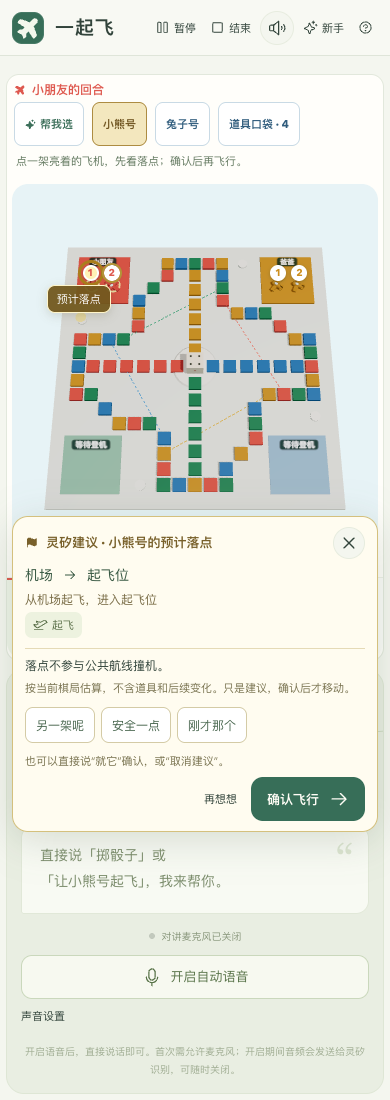
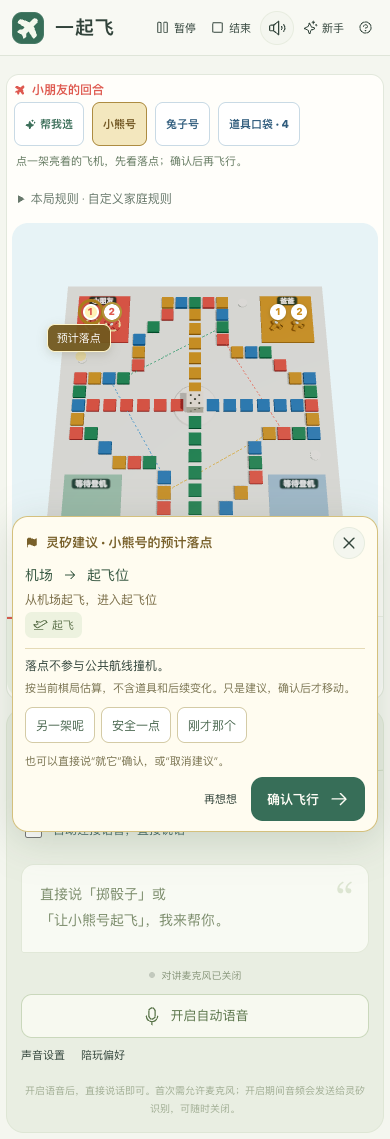
docs: publish P1 acceptance, current screenshots and remaining roadmap

diff --git a/docs/QA-P1.md b/docs/QA-P1.md
@@ -1,0 +1,77 @@
+# P1：陪玩、规则预设与按需棋盘验收
+
+日期：2026-10-24。跟踪 #26、#27、#28，承接 #17。所有应用切片直接提交 main；真实亲子与实体手机验收沿用用户此前的完成确认，本轮合成与受控测试单独记录。
+
+## 已交付行为
+
+| 能力 | 当前行为 |
+| --- | --- |
+| 陪玩风格 | 温暖、耐心教练、简洁主持；教练适时补规则提示，简洁减少可选道具菜单 |
+| 主动频率 | 每回合、关键时刻、只问才答；关键时刻包括开局、跳跃/飞行、撞机/护盾与抵达 |
+| 偏好范围 | 当前浏览器 localStorage，刷新保留；联网各设备独立。原实时连接可更新，不重新请求麦克风或改棋局 |
+| 跳过 | 可跳过正在准备或播放的输出式解说，实时回复可停止；切换偏好会取消旧主持，下一次主动提问仍可播放 |
+| 亲子轻松 | 5/6起飞，只有6再掷；每人2架，先到1架；起飞2、加速1、幸运1、护盾2，无炸弹 |
+| 经典飞行 | 6起飞并再掷；每人4架全部抵达；无道具，保留本项目同色跳跃与精确终点规则 |
+| 自定义 | 原来的6起飞规则，选择快速/完整与道具开关；有道具时五种各1张 |
+| 按需棋盘 | 首页不下载Three.js/棋盘模块；首次进对局加载，返回再进复用；失败显示重新加载入口 |
+
+只问才答不会关闭已开启的麦克风，仍可掷骰、查询和请求建议。关麦与总静音在声音设置中独立控制。棋盘规则由 Go 决定，偏好不能改变随机骰子、合法动作、库存或其他席位权限。
+
+## 实际浏览器与 Go
+
+- `test:companion:browser`：实际Chrome合成麦克风、AudioBufferSourceNode与受控WebSocket/PCM；偏好保存、原连接更新、不改状态、quiet不请求TTS、跳过停播且不重放、真实服务抑制普通回合的关键时刻播报、另一设备偏好独立。
+- `test:presets:browser`：正式创建与随机掷骰，观察真实5点后在页面选择/确认，收到服务成功响应后飞机到起飞位且切换下一人；道具数量、禁用炸弹、引导规则、局内改预设拒绝、暂停/续玩/再玩库存、经典四架无道具、客人看到相同规则且不能改规则、手机视口无横向溢出。公网已通过，麦克风请求0。
+- `test:loading:browser`：冷首页无棋盘请求/画布，首次进入才请求模块，再次进入不重复下载；刻意中止模块请求后中文恢复入口可用，重载保留同一棋局、棋子和统计。
+- `test:saves:browser`：新版本再次通过真实SIGTERM/SIGKILL、骰子/道具/席位恢复、机器人等待继续、SQLite中止写入回滚、同命令不重复、在线WAL备份恢复与删除。
+- `go test -race ./...`：包含5点起飞不加掷、经典5点不起飞、胜利条件、语音合法选择、提示规则一致、SQLite重启与再玩保留预设、旧数据自定义兼容与新格式保护。15项语音生命周期、6项展示序列、4项播报/音效及安静引导/结束/幸运骰浏览器流程通过。
+
+初始道具配比是产品设计，尚不声称经过统计性平衡研究。经典预设是本项目明确展示的家庭规则，不宣称兼容所有地区飞行棋变体。
+
+## 真实灵矽
+
+真实Chrome合成WAV → AudioWorklet → Go → Lingxi，教练＋只问才答模式六句：轮到谁、使用起飞卡、掷骰、让小熊号起飞、轮到谁、不要掷骰。
+
+首次检查发现模型在操作实际完成后仍偶发错讲起飞卡条件、使用外部昵称，不能仅凭状态变更宣布语音验收通过。修复后轮次查询由Go解析，动作播报改用已提交事件生成的待读文案，明确任意点数与起飞位；模型提供语音，不重新解释这些事实。简洁模式进一步去掉可选菜单，仍保留实际结果。
+
+修正后的公网样本：随机3点，版本1→2→3→4，飞机进度0；真实回复包含“任意点数”“起飞位”与正确昵称小朋友/爸爸，查询和否定不写入，重连不改变版本，主动host_cue为0。最终转写到首段PCM的6个样本为838、792、1160、851、851、898ms；这是有限样本和链路区间，不是声学端到端P95。
+
+输出式TTS实际返回：教练文案包含亲子五点/六点规则，325144字节PCM；简洁轮次90088字节PCM。真实Chrome播放PCM成功，quiet接口返回204，麦克风请求0、棋局完全不变。
+
+这些是本轮合成输入和真实上游样本，不宣称所有口音与生成回复都无误差。
+
+## 实测加载量
+
+同一台机器、原生Chrome冷浏览器，比较拆分前后正常HTTP响应；没有用构建报告替代网络测量。
+
+| 测量 | 改前 | 改后 |
+| --- | ---: | ---: |
+| 本地冷首页JS响应/解压后字节 | 944401 | 373826 |
+| 首次进入棋盘额外JS字节 | 0（首页已下载） | 572352 |
+| 公网冷首页压缩响应字节 | 未记录 | 118628 |
+| 公网进入棋盘额外压缩字节 | 未记录 | 153575 |
+
+冷首页JS减少60.4%。完整对局仍需下载棋盘，拆分后总JS约946KB；不宣称总下载量或首屏耗时也减少60.4%，未做跨地区/弱网的时间基准。
+
+## 发布与恢复
+
+应用提交：[a3a4425](https://github.com/zkevindev/flytogether/commit/a3a4425) 陪玩、[d7640a5](https://github.com/zkevindev/flytogether/commit/d7640a5) 预设、[1c00762](https://github.com/zkevindev/flytogether/commit/1c00762) 按需加载、[0f958ca](https://github.com/zkevindev/flytogether/commit/0f958ca) 事实文案、[1fca073](https://github.com/zkevindev/flytogether/commit/1fca073) 简洁解说与回归收尾、[f9d4e48](https://github.com/zkevindev/flytogether/commit/f9d4e48) 页面间距与稳定截图。
+
+已部署，升级前完成在线SQLite备份和完整性检查。格式版本升级为2，以防旧程序按原起飞规则误读新预设；旧存档按自定义规则迁移。备份和旧版本恢复步骤见 [SAVES](SAVES.md)。公网发布二进制、首页与三个静态资源哈希核对，数据库和凭据权限600。亲子预设另经公网真实服务重启验证，原页面/原席位、5/6起飞规则、骰子/道具保留，重复命令不执行，继续后飞机起飞；输出式TTS返回109012字节24kHz PCM。
+
+## 复跑
+
+```sh
+go test -race ./...
+npm --prefix web run build
+QA_BASE_URL=http://127.0.0.1:8080 npm --prefix web run test:companion:browser
+QA_BASE_URL=http://127.0.0.1:8080 npm --prefix web run test:presets:browser
+QA_BASE_URL=http://127.0.0.1:8080 QA_EXPECT_LAZY=1 npm --prefix web run test:loading:browser
+QA_BASE_URL=http://127.0.0.1:8080 npm --prefix web run test:companion:tts
+QA_BASE_URL=http://127.0.0.1:8080 QA_AUDIO_FILE=/本机合成输入.wav \
+QA_COMPANION_STYLE=coach QA_COMPANION_FREQUENCY=quiet QA_REQUIRE_FACTUAL=1 \
+npm --prefix web run test:voice:realtime
+```
+
+浏览器脚本需要Chrome；受控陪玩回归的测试服务须启用voice_configured。最后两项调用真实上游，须配置服务端凭据；录音和地址从本机环境变量传入，不写入仓库。当前图与新增6张证据的版本、范围和哈希见 [SCREENSHOTS](SCREENSHOTS.md)。
+
+仍未交付：家庭昵称/头像档案、跨局历史战绩、更广键盘/减少动画交互、特殊合作玩法。#17继续跟踪，不把这三项切片等同全部P1。

diff --git a/docs/ROADMAP.md b/docs/ROADMAP.md
@@ -19,7 +19,7 @@
 | 教学 | 三步新手指南、落点预览与确认、规则弹窗、语音问答 | 可跳过的首次引导与分阶段提示 |
 | 结束 | 动画后结算、真实统计、同配置再玩；手动结束回首页 | 有真实结果、统计、再玩和返回的结算流程 |
 | 语音 | 直接对话、打断、独立回合播报、有限缓冲 | 声音控制清楚，故障可恢复，成本有边界 |
-| 验收 | 自动与受控故障回归、真实平台、有限真人确认 | 补齐真实手机、家庭完整局与长时间场景 |
+| 验收 | 自动与受控故障回归、真实平台，用户确认亲子与实体手机完成 | 补齐真实手机与家庭已由用户确认，长时间专项继续记录 |
 
 ## P0：完整性与可靠性
 
@@ -44,7 +44,7 @@
 - [x] 选子前预览落点、跳格、撞机或终点，预览取自 Go 的合法走法。
 - [x] 语音不确定时追问，查询和建议保持只读；推荐不会替用户消耗道具。
 
-已完成实际浏览器回归：引导跳过/完成/重看，预览不写入、确认一次、特殊效果一致、手机视口与 2D 降级。没有开发者协助的新用户与真实亲子试玩仍由 #3 验收，不以脚本代替。
+已完成实际浏览器回归：引导跳过/完成/重看，预览不写入、确认一次、特殊效果一致、手机视口与 2D 降级。用户已确认真实亲子与实体手机验收完成；以上自动化范围仍单独记录，不替代用户反馈。
 
 ### 3. 结算与再玩
 
@@ -62,7 +62,7 @@
 用户收益：不想开麦也能听回合播报；断网或音频暂停后知道怎么继续。
 
 - [x] 分别控制对讲麦克风、回合播报与游戏音效，保留偏好并提供总静音。
-- [ ] 麦克风拒绝、声音锁定、音频上下文暂停、上游不可用有简短明确的恢复入口。
+- [x] 麦克风拒绝、声音锁定、音频上下文暂停、上游不可用有简短明确的恢复入口。
 - [x] 游戏连接断开时显示状态，重连先读取权威快照，再允许提交新操作。
 - [x] 只安全重试：写请求沿用原 command ID，不能重连后再随机掷一次。
 - [x] 多房间语音并发、合成超时、费用和限流设置边界；失败时继续点击玩法。
@@ -83,12 +83,12 @@
 
 | 方向 | 可交付切片 | 验收重点 |
 | --- | --- | --- |
-| 灵矽陪玩 | #20 已交付版本绑定的建议预览、连续比较与明确确认；后续教学、鼓励和解说偏好 | 频率可调、可跳过、不抢连续对话、不编造操作结果 |
-| 规则与节奏 | 亲子/经典预设，说明起飞与胜利条件；根据试玩调整道具库存 | 点击、AI、语音共用 Go 规则；规则在一局内固定 |
+| 灵矽陪玩 | #20 教练建议已完成；#26 三种风格、三档频率、跳过与当前浏览器偏好已部署 | 频率可调、可跳过、不抢连续对话、不编造操作结果 |
+| 规则与节奏 | #27 亲子轻松/经典/自定义已部署，明确起飞、胜利与道具；配比继续收集反馈 | 点击、AI、语音共用 Go 规则；规则在一局内固定 |
 | 可选特殊玩法 | 再根据试玩选择天气、补给或合作目标等机制 | 清楚显示规则变化，有实际选择，不只是随机惩罚与动画 |
 | 家庭档案 | 同一浏览器记昵称、头像和历史战绩 | 建立在存档之上，可删除，不保存原始语音 |
 | 手机与可访问性 | 大触控区域、编号与颜色并用、键盘与减少动画 | 平板横竖屏可用，低性能设备可走 2D 降级 |
-| 首次加载 | 首页与 Three.js 棋盘按需加载，减少无关下载 | 对比真实首屏时间与下载大小，不只报构建文件大小 |
+| 首次加载 | #28 已交付：首页不下载棋盘，进入对局才加载，失败可重试 | 对比真实首屏时间与下载大小，不只报构建文件大小 |
 
 ### 已选择的陪玩切片 #20
 
@@ -103,3 +103,11 @@
 当前优先顺序：**新手引导＋落点预览 → 结算再玩 → 亲子规则与灵矽陪玩 → 存档续玩与异常恢复 → 家庭验收**。玩法切片与可靠性任务都属于 1.0 门槛；完成引导不表示已交付结算、存档或其他计划。每次选择一个可验收切片，直接提交 main，Issue 回链代码和证据；联网扩展以独立 Issue #22 跟踪，不替代存档和家庭验收。
 
 同屏 1.0 发布前，P0 都应有实际验证记录；存在未覆盖设备时明确说明范围，不能只把已有功能列表改名为“完整产品”。存档与声音的范围、费用边界及复跑方式见 [QA-RELIABILITY](QA-RELIABILITY.md)，备份见 [SAVES](SAVES.md)。每个可见界面变更同步更新 [截图说明](SCREENSHOTS.md)；README 只写已经可用的能力，计划保留在本文。
+
+## 2026-10-24：P1本轮完成
+
+- [x] #26 温暖/教练/简洁，每回合/关键时刻/只问才答，当前浏览器保存，联网偏好独立；Go事实文案和主动停止。
+- [x] #27 亲子轻松、经典与原自定义规则，Go/AI/点击/语音/引导一致，开局固定、重启与再玩保留。
+- [x] #28 棋盘按需下载与加载失败恢复；实际冷首页JS 944401→373826字节，减少60.4%，不是首屏耗时结论。
+
+详细代码、真实平台/受控测试和限制见 [QA-P1](QA-P1.md)。下一步仍是家庭昵称/头像档案、跨局历史战绩、更多键盘/减少动画交互及玩法；道具平衡持续按反馈调整。#17保持开放。

diff --git a/docs/ARCHITECTURE.md b/docs/ARCHITECTURE.md
@@ -577,3 +577,14 @@ Room 的语音租约防止旧连接断开时清除新连接的动作授权；回
 沿用已有一个规则 AI（最后一席）与 `Room.AI()` 调度：轻松随机选合法飞机且不用道具，普通优先合法好走法并用辅助道具，挑战会攻击和防守。骰子仍由相同 Go 随机源生成，不依赖灵矽 API。等待、暂停和结束不调度机器人；再次开局复用机器人标记、名字与难度，真人客人重新准备。
 
 “添加机器人陪玩”表示占用一个玩家席位；“灵矽语音助手”是不占席位的主持/讲解/真人操作入口。联网机器人回合没有真人会话可取得 actor 权限，真人点击和语音仍不能代操作该席位；机器人仅由 Go 内部调度行动。
+
+
+## P1：陪玩、预设与按需棋盘（#26～#28）
+
+陪玩偏好属于浏览器，保存在localStorage；realtime握手携带枚举style/frequency，连接内可通过受校验的companion_preferences更新，取消旧主持但不重连麦克风、不改变棋局。输出式TTS请求携带相同偏好，Go决定是否需要播报；quiet返回204，明确提问和操作仍可响应。风格不放宽动作授权。
+
+常见轮次查询由Go解析；明确操作完成后，以已提交事件生成待读文案，避免模型重新解释起飞卡、点数、位置和昵称。自由对话仍需模型，实际样本与误差范围见 [QA-P1](QA-P1.md)。
+
+Options.preset选择gentle/classic/custom；服务端将固定模式和道具条件规范化。State保存preset和实际rules说明，legalMoves、机器人与语音选择共享CanLaunch等Go规则。亲子允许5/6起飞，只有6加掷；经典四架全到无道具；原自定义保持兼容。数据库schema2阻止旧程序误读新规则，升级前已备份。
+
+BoardLoader通过React.lazy按需导入Board/Three.js，Suspense显示加载提示，局部错误边界提供重新加载入口，保留其余页面。首页不发出棋盘模块请求；首次进入下载，返回再进复用。加载量实测和失效恢复范围见QA-P1。

diff --git a/docs/SCREENSHOTS.md b/docs/SCREENSHOTS.md
@@ -55,3 +55,8 @@ npm --prefix web run capture:docs
 ## 存档与独立声音（#24 / #25）
 
 `images/current/` 10 张已从 b485e95 运行应用重新采集，主图、手机和教练图包含当前声音设置入口。新增 [reliability/manifest.json](images/reliability/manifest.json) 记录5张：重启后首页、骰子选择阶段恢复、SQLite写入失败、混合席位恢复和声音设置。前四张来自真实进程重启/受控磁盘写入失败；声音设置图使用受控 PCM 和 Chrome 合成麦克风，未使用实体录音。已检查棋盘、弹窗、手机内容及保存提示可见。历史 network/network-bot 图的版本保留在原清单中。
+
+
+## P1：陪玩与规则预设
+
+当前界面10张已重新采集；新增 [p1/manifest.json](images/p1/manifest.json) 记录6张真实页面：陪玩偏好、亲子创建配置、亲子规则棋盘、辅助补给、经典手机视口和棋盘加载失败恢复。拍摄等待画布和布局稳定，普通局使用真实随机骰子；加载失败图仅刻意中止模块下载，未注入棋局。逐张版本与哈希保留在清单，实体反馈与合成/受控音频分开记录。

diff --git a/docs/SAVES.md b/docs/SAVES.md
@@ -37,3 +37,8 @@ python3 scripts/save_backup.py \
 SQLite 数据库整体损坏或 schema 比程序新时启动失败并保留文件，应检查服务日志和备份，不能删除数据库当作修复。单条房间记录校验失败时会隔离到 `quarantine` 表并记告警，其旧席位映射不再有效；网页可新建游戏，不能把损坏棋局当正常棋局继续。清理过期记录不等于擦除备份，备份保留和删除由运维管理。
 
 实际进程重启、写入失败、去重与恢复范围见 [存档与声音验收](QA-RELIABILITY.md)。
+
+
+## 预设规则版本保护（#27）
+
+数据库格式现为2，旧存档按原自定义规则迁移，亲子/经典预设与库存随棋局保存。旧程序无法理解新的起飞规则时会拒绝打开较新的数据库；回滚至不支持预设的程序，应先停止服务并按上文恢复升级前备份，不能只替换旧二进制。恢复会回到备份时刻。此次上线前已完成在线备份与完整性核对。
